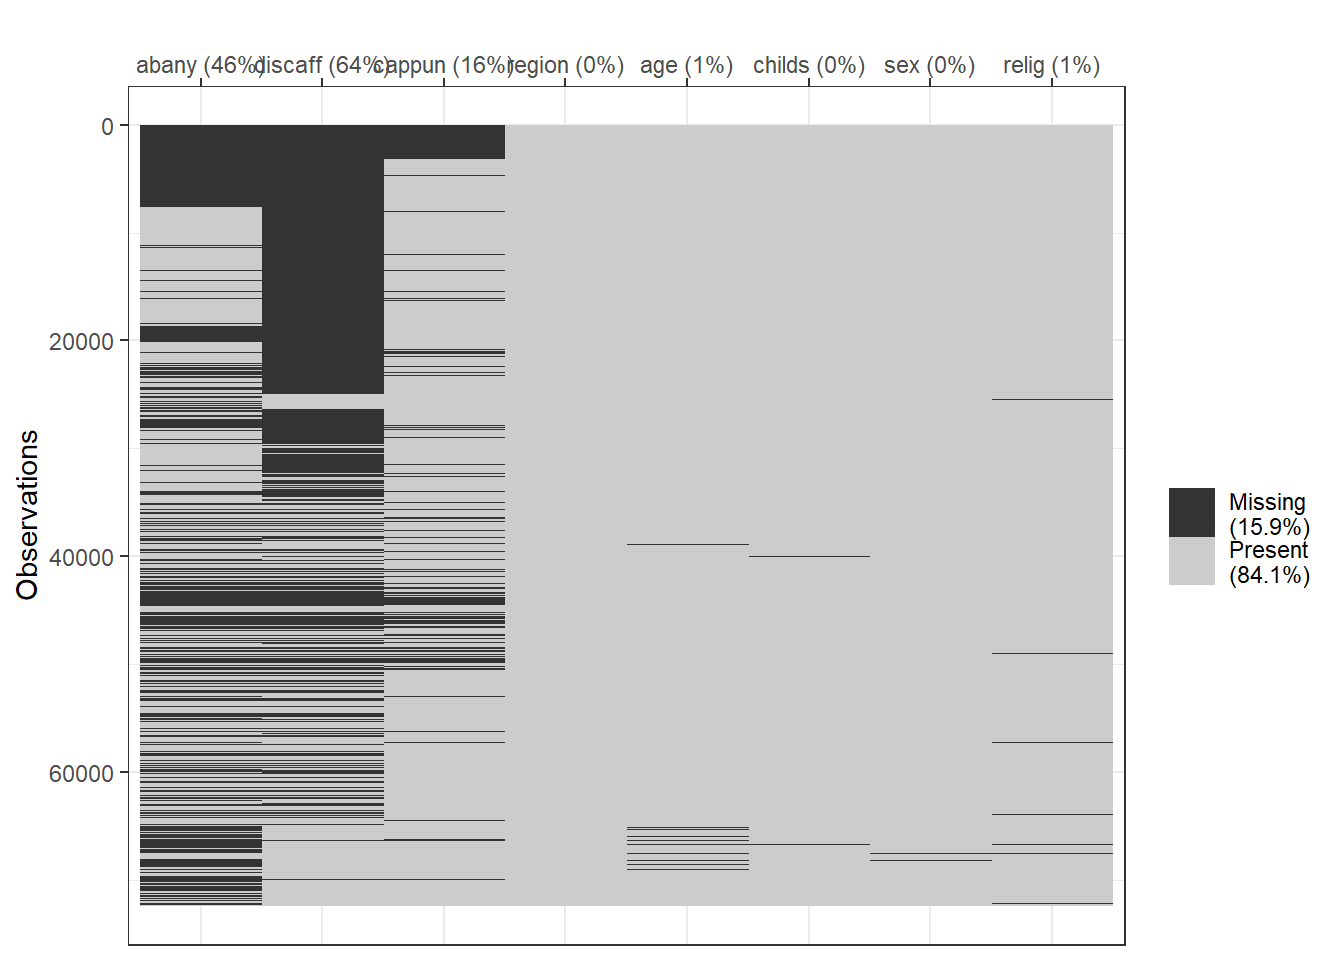
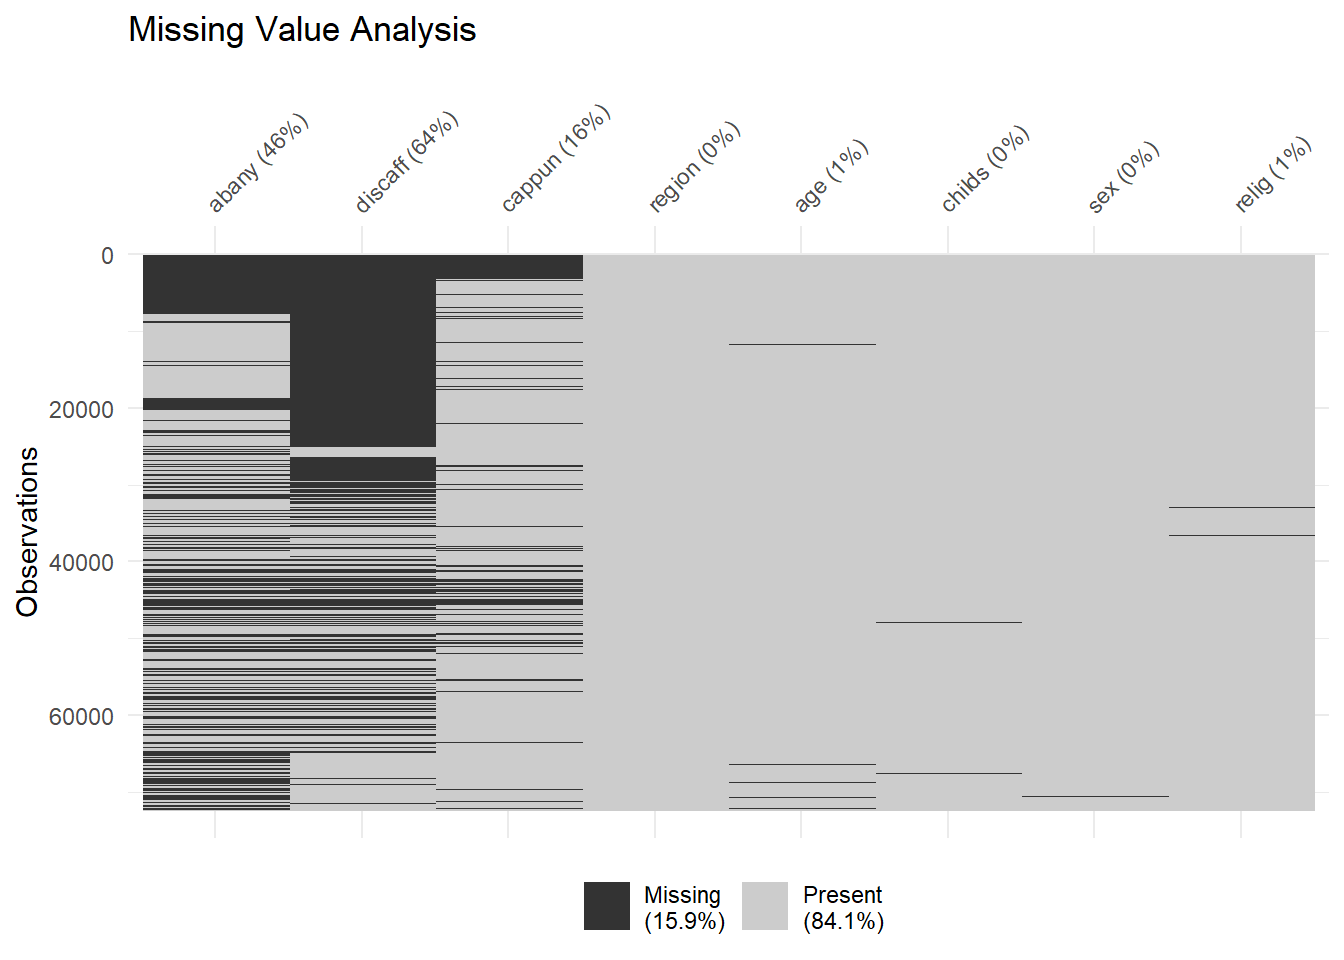
Rendered data section

diff --git a/docs/data.html b/docs/data.html
@@ -252,10 +252,12 @@ pre > code.sourceCode > span > a:first-child::before { text-decoration: underlin
 <span id="cb1-3"><a href="#cb1-3" aria-hidden="true" tabindex="-1"></a><span class="fu">library</span>(naniar)</span>
 <span id="cb1-4"><a href="#cb1-4" aria-hidden="true" tabindex="-1"></a><span class="fu">library</span>(dplyr)</span>
 <span id="cb1-5"><a href="#cb1-5" aria-hidden="true" tabindex="-1"></a><span class="fu">library</span>(ggplot2)</span>
-<span id="cb1-6"><a href="#cb1-6" aria-hidden="true" tabindex="-1"></a><span class="fu">data</span>(gss_all)</span>
-<span id="cb1-7"><a href="#cb1-7" aria-hidden="true" tabindex="-1"></a>gss_all <span class="sc">|&gt;</span></span>
-<span id="cb1-8"><a href="#cb1-8" aria-hidden="true" tabindex="-1"></a>  <span class="fu">select</span>(abany, discaff, cappun, region, age, childs, sex, relig) <span class="sc">|&gt;</span></span>
-<span id="cb1-9"><a href="#cb1-9" aria-hidden="true" tabindex="-1"></a>  <span class="fu">vis_miss</span>() <span class="sc">+</span> <span class="fu">theme_bw</span>()</span></code><button title="Copy to Clipboard" class="code-copy-button"><i class="bi"></i></button></pre></div>
+<span id="cb1-6"><a href="#cb1-6" aria-hidden="true" tabindex="-1"></a><span class="fu">library</span>(forcats)</span>
+<span id="cb1-7"><a href="#cb1-7" aria-hidden="true" tabindex="-1"></a><span class="fu">data</span>(gss_all)</span>
+<span id="cb1-8"><a href="#cb1-8" aria-hidden="true" tabindex="-1"></a>gss_all <span class="sc">|&gt;</span></span>
+<span id="cb1-9"><a href="#cb1-9" aria-hidden="true" tabindex="-1"></a>  <span class="fu">select</span>(abany, discaff, cappun, region, age, childs, sex, relig) <span class="sc">|&gt;</span></span>
+<span id="cb1-10"><a href="#cb1-10" aria-hidden="true" tabindex="-1"></a>  <span class="fu">vis_miss</span>() <span class="sc">+</span> </span>
+<span id="cb1-11"><a href="#cb1-11" aria-hidden="true" tabindex="-1"></a>  <span class="fu">ggtitle</span>(<span class="st">"Missing Value Analysis"</span>) </span></code><button title="Copy to Clipboard" class="code-copy-button"><i class="bi"></i></button></pre></div>
 </details>
 <div class="cell-output-display">
 <p><img src="data_files/figure-html/unnamed-chunk-1-1.png" class="img-fluid" width="672"></p>
@@ -307,11 +309,12 @@ pre > code.sourceCode > span > a:first-child::before { text-decoration: underlin
 <span id="cb2-35"><a href="#cb2-35" aria-hidden="true" tabindex="-1"></a>                          </span>
 <span id="cb2-36"><a href="#cb2-36" aria-hidden="true" tabindex="-1"></a><span class="fu">ggplot</span>(NA_percentage_b <span class="sc">|&gt;</span> <span class="fu">mutate</span>(<span class="at">reason =</span> <span class="fu">factor</span>(reason, <span class="at">levels =</span> inv<span class="sc">$</span>reason)), <span class="fu">aes</span>(<span class="at">x=</span>reason, <span class="at">y=</span> Perc, <span class="at">fill =</span> response)) <span class="sc">+</span></span>
 <span id="cb2-37"><a href="#cb2-37" aria-hidden="true" tabindex="-1"></a>  <span class="fu">geom_col</span>() <span class="sc">+</span></span>
-<span id="cb2-38"><a href="#cb2-38" aria-hidden="true" tabindex="-1"></a>  <span class="fu">labs</span>(<span class="at">x =</span> <span class="st">"Reason for abortion"</span>, <span class="at">y =</span> <span class="st">"Percentage of missing values (NA) in the responses"</span>, <span class="at">title =</span> <span class="st">"Percentage of Missing Values (NA) in Responses to Abortion Questions by NA Label"</span>) <span class="sc">+</span></span>
-<span id="cb2-39"><a href="#cb2-39" aria-hidden="true" tabindex="-1"></a>  <span class="fu">theme_bw</span>()</span></code><button title="Copy to Clipboard" class="code-copy-button"><i class="bi"></i></button></pre></div>
+<span id="cb2-38"><a href="#cb2-38" aria-hidden="true" tabindex="-1"></a>  <span class="fu">labs</span>(<span class="at">x =</span> <span class="st">"Reason for abortion"</span>, <span class="at">y =</span> <span class="st">"Percentage of Missing Values (NA) in the Responses"</span>, <span class="at">title =</span> <span class="st">"Percentage of Missing Values (NA) in Responses to Abortion Questions by NA Label"</span>, <span class="at">fill =</span> <span class="st">"Response"</span>) <span class="sc">+</span></span>
+<span id="cb2-39"><a href="#cb2-39" aria-hidden="true" tabindex="-1"></a>  <span class="fu">theme_bw</span>(<span class="dv">12</span>) <span class="sc">+</span></span>
+<span id="cb2-40"><a href="#cb2-40" aria-hidden="true" tabindex="-1"></a>  <span class="fu">theme</span>(<span class="at">plot.title =</span> <span class="fu">element_text</span>( <span class="at">size =</span> <span class="dv">15</span>))</span></code><button title="Copy to Clipboard" class="code-copy-button"><i class="bi"></i></button></pre></div>
 </details>
 <div class="cell-output-display">
-<p><img src="data_files/figure-html/unnamed-chunk-2-1.png" class="img-fluid" width="960"></p>
+<p><img src="data_files/figure-html/unnamed-chunk-2-1.png" class="img-fluid" width="1056"></p>
 </div>
 </div>
 </section>
@@ -323,10 +326,11 @@ pre > code.sourceCode > span > a:first-child::before { text-decoration: underlin
 <div class="sourceCode cell-code" id="cb3"><pre class="sourceCode r code-with-copy"><code class="sourceCode r"><span id="cb3-1"><a href="#cb3-1" aria-hidden="true" tabindex="-1"></a>gss_ad <span class="ot">&lt;-</span> gss_all <span class="sc">|&gt;</span> </span>
 <span id="cb3-2"><a href="#cb3-2" aria-hidden="true" tabindex="-1"></a>  <span class="fu">select</span>(discaff, affrmact)</span>
 <span id="cb3-3"><a href="#cb3-3" aria-hidden="true" tabindex="-1"></a></span>
-<span id="cb3-4"><a href="#cb3-4" aria-hidden="true" tabindex="-1"></a><span class="fu">ggplot</span>(gss_ad, <span class="fu">aes</span>(<span class="at">y =</span> haven<span class="sc">::</span><span class="fu">as_factor</span>(discaff))) <span class="sc">+</span> </span>
+<span id="cb3-4"><a href="#cb3-4" aria-hidden="true" tabindex="-1"></a><span class="fu">ggplot</span>(gss_ad, <span class="fu">aes</span>(<span class="at">y =</span> <span class="fu">fct_rev</span>(<span class="fu">fct_infreq</span>(haven<span class="sc">::</span><span class="fu">as_factor</span>(discaff)))))<span class="sc">+</span></span>
 <span id="cb3-5"><a href="#cb3-5" aria-hidden="true" tabindex="-1"></a>  <span class="fu">geom_bar</span>() <span class="sc">+</span> </span>
-<span id="cb3-6"><a href="#cb3-6" aria-hidden="true" tabindex="-1"></a>  <span class="fu">ggtitle</span>(<span class="st">"Value Breakdown of discaff variable"</span>)<span class="sc">+</span></span>
-<span id="cb3-7"><a href="#cb3-7" aria-hidden="true" tabindex="-1"></a>  <span class="fu">theme_bw</span>()</span></code><button title="Copy to Clipboard" class="code-copy-button"><i class="bi"></i></button></pre></div>
+<span id="cb3-6"><a href="#cb3-6" aria-hidden="true" tabindex="-1"></a>  <span class="fu">ggtitle</span>(<span class="st">"Value Breakdown of 'discaff' Variable"</span>) <span class="sc">+</span></span>
+<span id="cb3-7"><a href="#cb3-7" aria-hidden="true" tabindex="-1"></a>  <span class="fu">labs</span>(<span class="at">y =</span> <span class="st">"Possible Responses to 'discaff'"</span>, <span class="at">x =</span> <span class="st">"Count"</span>) <span class="sc">+</span></span>
+<span id="cb3-8"><a href="#cb3-8" aria-hidden="true" tabindex="-1"></a>  <span class="fu">theme_bw</span>() </span></code><button title="Copy to Clipboard" class="code-copy-button"><i class="bi"></i></button></pre></div>
 </details>
 <div class="cell-output-display">
 <p><img src="data_files/figure-html/unnamed-chunk-3-1.png" class="img-fluid" width="672"></p>
@@ -335,10 +339,11 @@ pre > code.sourceCode > span > a:first-child::before { text-decoration: underlin
 <div class="cell">
 <details>
 <summary>Code</summary>
-<div class="sourceCode cell-code" id="cb4"><pre class="sourceCode r code-with-copy"><code class="sourceCode r"><span id="cb4-1"><a href="#cb4-1" aria-hidden="true" tabindex="-1"></a><span class="fu">ggplot</span>(gss_ad, <span class="fu">aes</span>(<span class="at">y =</span> haven<span class="sc">::</span><span class="fu">as_factor</span>(affrmact))) <span class="sc">+</span> </span>
+<div class="sourceCode cell-code" id="cb4"><pre class="sourceCode r code-with-copy"><code class="sourceCode r"><span id="cb4-1"><a href="#cb4-1" aria-hidden="true" tabindex="-1"></a><span class="fu">ggplot</span>(gss_ad, <span class="fu">aes</span>(<span class="at">y =</span> <span class="fu">fct_rev</span>(<span class="fu">fct_infreq</span>(haven<span class="sc">::</span><span class="fu">as_factor</span>(affrmact))))) <span class="sc">+</span> </span>
 <span id="cb4-2"><a href="#cb4-2" aria-hidden="true" tabindex="-1"></a>  <span class="fu">geom_bar</span>() <span class="sc">+</span> </span>
-<span id="cb4-3"><a href="#cb4-3" aria-hidden="true" tabindex="-1"></a>  <span class="fu">ggtitle</span>(<span class="st">"Value Breakdown of affrmact variable"</span>) <span class="sc">+</span></span>
-<span id="cb4-4"><a href="#cb4-4" aria-hidden="true" tabindex="-1"></a>  <span class="fu">theme_bw</span>()</span></code><button title="Copy to Clipboard" class="code-copy-button"><i class="bi"></i></button></pre></div>
+<span id="cb4-3"><a href="#cb4-3" aria-hidden="true" tabindex="-1"></a>  <span class="fu">ggtitle</span>(<span class="st">"Value Breakdown of 'affrmact' Variable"</span>) <span class="sc">+</span></span>
+<span id="cb4-4"><a href="#cb4-4" aria-hidden="true" tabindex="-1"></a>  <span class="fu">labs</span>(<span class="at">y =</span> <span class="st">"Possible Responses to 'affrmact'"</span>, <span class="at">x =</span> <span class="st">"Count"</span>) <span class="sc">+</span></span>
+<span id="cb4-5"><a href="#cb4-5" aria-hidden="true" tabindex="-1"></a>  <span class="fu">theme_bw</span>()</span></code><button title="Copy to Clipboard" class="code-copy-button"><i class="bi"></i></button></pre></div>
 </details>
 <div class="cell-output-display">
 <p><img src="data_files/figure-html/unnamed-chunk-4-1.png" class="img-fluid" width="672"></p>
@@ -352,48 +357,45 @@ pre > code.sourceCode > span > a:first-child::before { text-decoration: underlin
 <div class="cell">
 <details>
 <summary>Code</summary>
-<div class="sourceCode cell-code" id="cb5"><pre class="sourceCode r code-with-copy"><code class="sourceCode r"><span id="cb5-1"><a href="#cb5-1" aria-hidden="true" tabindex="-1"></a><span class="fu">library</span>(ggplot2)</span>
-<span id="cb5-2"><a href="#cb5-2" aria-hidden="true" tabindex="-1"></a><span class="fu">library</span>(dplyr)</span>
-<span id="cb5-3"><a href="#cb5-3" aria-hidden="true" tabindex="-1"></a></span>
-<span id="cb5-4"><a href="#cb5-4" aria-hidden="true" tabindex="-1"></a>cp <span class="ot">&lt;-</span> gss_all <span class="sc">|&gt;</span> <span class="fu">filter</span>(cappun<span class="sc">==</span><span class="dv">1</span> <span class="sc">|</span> cappun<span class="sc">==</span><span class="dv">2</span>)</span>
-<span id="cb5-5"><a href="#cb5-5" aria-hidden="true" tabindex="-1"></a></span>
-<span id="cb5-6"><a href="#cb5-6" aria-hidden="true" tabindex="-1"></a>cp_df <span class="ot">&lt;-</span> <span class="fu">data.frame</span>(</span>
-<span id="cb5-7"><a href="#cb5-7" aria-hidden="true" tabindex="-1"></a>  <span class="at">column =</span> <span class="fu">names</span>(<span class="fu">colSums</span>(<span class="fu">is.na</span>(cp))),</span>
-<span id="cb5-8"><a href="#cb5-8" aria-hidden="true" tabindex="-1"></a>  <span class="at">missing_count =</span> <span class="fu">sort</span>(<span class="fu">colSums</span>(<span class="fu">is.na</span>(cp))),</span>
-<span id="cb5-9"><a href="#cb5-9" aria-hidden="true" tabindex="-1"></a>  <span class="at">total_responses =</span> <span class="fu">nrow</span>(cp)</span>
-<span id="cb5-10"><a href="#cb5-10" aria-hidden="true" tabindex="-1"></a>)</span>
+<div class="sourceCode cell-code" id="cb5"><pre class="sourceCode r code-with-copy"><code class="sourceCode r"><span id="cb5-1"><a href="#cb5-1" aria-hidden="true" tabindex="-1"></a>cp <span class="ot">&lt;-</span> gss_all <span class="sc">|&gt;</span> <span class="fu">filter</span>(cappun<span class="sc">==</span><span class="dv">1</span> <span class="sc">|</span> cappun<span class="sc">==</span><span class="dv">2</span>)</span>
+<span id="cb5-2"><a href="#cb5-2" aria-hidden="true" tabindex="-1"></a></span>
+<span id="cb5-3"><a href="#cb5-3" aria-hidden="true" tabindex="-1"></a>cp_df <span class="ot">&lt;-</span> <span class="fu">data.frame</span>(</span>
+<span id="cb5-4"><a href="#cb5-4" aria-hidden="true" tabindex="-1"></a>  <span class="at">column =</span> <span class="fu">names</span>(<span class="fu">colSums</span>(<span class="fu">is.na</span>(cp))),</span>
+<span id="cb5-5"><a href="#cb5-5" aria-hidden="true" tabindex="-1"></a>  <span class="at">missing_count =</span> <span class="fu">sort</span>(<span class="fu">colSums</span>(<span class="fu">is.na</span>(cp))),</span>
+<span id="cb5-6"><a href="#cb5-6" aria-hidden="true" tabindex="-1"></a>  <span class="at">total_responses =</span> <span class="fu">nrow</span>(cp)</span>
+<span id="cb5-7"><a href="#cb5-7" aria-hidden="true" tabindex="-1"></a>)</span>
+<span id="cb5-8"><a href="#cb5-8" aria-hidden="true" tabindex="-1"></a></span>
+<span id="cb5-9"><a href="#cb5-9" aria-hidden="true" tabindex="-1"></a><span class="co"># variables of interest</span></span>
+<span id="cb5-10"><a href="#cb5-10" aria-hidden="true" tabindex="-1"></a>cp_df_2 <span class="ot">&lt;-</span> cp_df <span class="sc">|&gt;</span> <span class="fu">filter</span>(column <span class="sc">%in%</span> <span class="fu">c</span>(<span class="st">'age'</span>, <span class="st">'race'</span>, <span class="st">'sex'</span>, <span class="st">'region'</span>, <span class="st">'relig'</span>, <span class="st">'degree'</span>))</span>
 <span id="cb5-11"><a href="#cb5-11" aria-hidden="true" tabindex="-1"></a></span>
-<span id="cb5-12"><a href="#cb5-12" aria-hidden="true" tabindex="-1"></a><span class="co"># variables of interest</span></span>
-<span id="cb5-13"><a href="#cb5-13" aria-hidden="true" tabindex="-1"></a>cp_df_2 <span class="ot">&lt;-</span> cp_df <span class="sc">|&gt;</span> <span class="fu">filter</span>(column <span class="sc">%in%</span> <span class="fu">c</span>(<span class="st">'age'</span>, <span class="st">'race'</span>, <span class="st">'sex'</span>, <span class="st">'region'</span>, <span class="st">'relig'</span>, <span class="st">'degree'</span>))</span>
-<span id="cb5-14"><a href="#cb5-14" aria-hidden="true" tabindex="-1"></a></span>
-<span id="cb5-15"><a href="#cb5-15" aria-hidden="true" tabindex="-1"></a><span class="co"># percentage of missing data</span></span>
-<span id="cb5-16"><a href="#cb5-16" aria-hidden="true" tabindex="-1"></a>cp_df<span class="sc">$</span>missing_percentage <span class="ot">&lt;-</span> (cp_df<span class="sc">$</span>missing_count <span class="sc">/</span> cp_df<span class="sc">$</span>total_responses) <span class="sc">*</span> <span class="dv">100</span></span>
-<span id="cb5-17"><a href="#cb5-17" aria-hidden="true" tabindex="-1"></a>cp_df_2<span class="sc">$</span>missing_percentage <span class="ot">&lt;-</span> (cp_df_2<span class="sc">$</span>missing_count <span class="sc">/</span> cp_df_2<span class="sc">$</span>total_responses) <span class="sc">*</span> <span class="dv">100</span></span>
-<span id="cb5-18"><a href="#cb5-18" aria-hidden="true" tabindex="-1"></a></span>
-<span id="cb5-19"><a href="#cb5-19" aria-hidden="true" tabindex="-1"></a>cp_df_sorted <span class="ot">&lt;-</span> cp_df <span class="sc">|&gt;</span> <span class="fu">arrange</span>(missing_percentage)</span>
-<span id="cb5-20"><a href="#cb5-20" aria-hidden="true" tabindex="-1"></a></span>
-<span id="cb5-21"><a href="#cb5-21" aria-hidden="true" tabindex="-1"></a>cp_df_2_sorted <span class="ot">&lt;-</span> cp_df_2 <span class="sc">|&gt;</span> </span>
-<span id="cb5-22"><a href="#cb5-22" aria-hidden="true" tabindex="-1"></a>  <span class="fu">arrange</span>(missing_percentage) <span class="sc">|&gt;</span> </span>
-<span id="cb5-23"><a href="#cb5-23" aria-hidden="true" tabindex="-1"></a>  <span class="fu">mutate</span>(<span class="at">column =</span> <span class="fu">factor</span>(column, <span class="at">levels =</span> column))</span>
-<span id="cb5-24"><a href="#cb5-24" aria-hidden="true" tabindex="-1"></a></span>
-<span id="cb5-25"><a href="#cb5-25" aria-hidden="true" tabindex="-1"></a>top_50_present <span class="ot">&lt;-</span> cp_df_sorted <span class="sc">|&gt;</span> </span>
-<span id="cb5-26"><a href="#cb5-26" aria-hidden="true" tabindex="-1"></a>  <span class="fu">slice_head</span>(<span class="at">n =</span> <span class="dv">50</span>) <span class="sc">|&gt;</span> </span>
-<span id="cb5-27"><a href="#cb5-27" aria-hidden="true" tabindex="-1"></a>  <span class="fu">mutate</span>(<span class="at">column =</span> <span class="fu">factor</span>(column, <span class="at">levels =</span> column))</span>
-<span id="cb5-28"><a href="#cb5-28" aria-hidden="true" tabindex="-1"></a></span>
-<span id="cb5-29"><a href="#cb5-29" aria-hidden="true" tabindex="-1"></a><span class="fu">ggplot</span>(top_50_present, <span class="fu">aes</span>(<span class="at">x =</span> column, <span class="at">y =</span> missing_percentage)) <span class="sc">+</span></span>
-<span id="cb5-30"><a href="#cb5-30" aria-hidden="true" tabindex="-1"></a>  <span class="fu">geom_bar</span>(<span class="at">stat =</span> <span class="st">"identity"</span>, <span class="at">fill =</span> <span class="st">"darkgrey"</span>) <span class="sc">+</span></span>
-<span id="cb5-31"><a href="#cb5-31" aria-hidden="true" tabindex="-1"></a>  <span class="fu">coord_flip</span>() <span class="sc">+</span></span>
-<span id="cb5-32"><a href="#cb5-32" aria-hidden="true" tabindex="-1"></a>  <span class="fu">labs</span>(</span>
-<span id="cb5-33"><a href="#cb5-33" aria-hidden="true" tabindex="-1"></a>    <span class="at">title =</span> <span class="st">'Top 50 Most Present Columns'</span>,</span>
-<span id="cb5-34"><a href="#cb5-34" aria-hidden="true" tabindex="-1"></a>    <span class="at">x =</span> <span class="st">"Columns"</span>,</span>
-<span id="cb5-35"><a href="#cb5-35" aria-hidden="true" tabindex="-1"></a>    <span class="at">y =</span> <span class="st">"Percentage of Missing Rows (%)"</span></span>
-<span id="cb5-36"><a href="#cb5-36" aria-hidden="true" tabindex="-1"></a>  ) <span class="sc">+</span></span>
-<span id="cb5-37"><a href="#cb5-37" aria-hidden="true" tabindex="-1"></a>  <span class="fu">geom_text</span>(</span>
-<span id="cb5-38"><a href="#cb5-38" aria-hidden="true" tabindex="-1"></a>    <span class="fu">aes</span>(<span class="at">label =</span> <span class="fu">sprintf</span>(<span class="st">"%.2f%%"</span>, missing_percentage)), </span>
-<span id="cb5-39"><a href="#cb5-39" aria-hidden="true" tabindex="-1"></a>    <span class="at">position =</span> <span class="fu">position_dodge</span>(<span class="at">width =</span> <span class="fl">0.9</span>),</span>
-<span id="cb5-40"><a href="#cb5-40" aria-hidden="true" tabindex="-1"></a>    <span class="at">hjust =</span> <span class="sc">-</span><span class="fl">0.1</span>,</span>
-<span id="cb5-41"><a href="#cb5-41" aria-hidden="true" tabindex="-1"></a>    <span class="at">size =</span> <span class="fl">2.5</span></span>
-<span id="cb5-42"><a href="#cb5-42" aria-hidden="true" tabindex="-1"></a>  )</span></code><button title="Copy to Clipboard" class="code-copy-button"><i class="bi"></i></button></pre></div>
+<span id="cb5-12"><a href="#cb5-12" aria-hidden="true" tabindex="-1"></a><span class="co"># percentage of missing data</span></span>
+<span id="cb5-13"><a href="#cb5-13" aria-hidden="true" tabindex="-1"></a>cp_df<span class="sc">$</span>missing_percentage <span class="ot">&lt;-</span> (cp_df<span class="sc">$</span>missing_count <span class="sc">/</span> cp_df<span class="sc">$</span>total_responses) <span class="sc">*</span> <span class="dv">100</span></span>
+<span id="cb5-14"><a href="#cb5-14" aria-hidden="true" tabindex="-1"></a>cp_df_2<span class="sc">$</span>missing_percentage <span class="ot">&lt;-</span> (cp_df_2<span class="sc">$</span>missing_count <span class="sc">/</span> cp_df_2<span class="sc">$</span>total_responses) <span class="sc">*</span> <span class="dv">100</span></span>
+<span id="cb5-15"><a href="#cb5-15" aria-hidden="true" tabindex="-1"></a></span>
+<span id="cb5-16"><a href="#cb5-16" aria-hidden="true" tabindex="-1"></a>cp_df_sorted <span class="ot">&lt;-</span> cp_df <span class="sc">|&gt;</span> <span class="fu">arrange</span>(missing_percentage)</span>
+<span id="cb5-17"><a href="#cb5-17" aria-hidden="true" tabindex="-1"></a></span>
+<span id="cb5-18"><a href="#cb5-18" aria-hidden="true" tabindex="-1"></a>cp_df_2_sorted <span class="ot">&lt;-</span> cp_df_2 <span class="sc">|&gt;</span> </span>
+<span id="cb5-19"><a href="#cb5-19" aria-hidden="true" tabindex="-1"></a>  <span class="fu">arrange</span>(missing_percentage) <span class="sc">|&gt;</span> </span>
+<span id="cb5-20"><a href="#cb5-20" aria-hidden="true" tabindex="-1"></a>  <span class="fu">mutate</span>(<span class="at">column =</span> <span class="fu">factor</span>(column, <span class="at">levels =</span> column))</span>
+<span id="cb5-21"><a href="#cb5-21" aria-hidden="true" tabindex="-1"></a></span>
+<span id="cb5-22"><a href="#cb5-22" aria-hidden="true" tabindex="-1"></a>top_50_present <span class="ot">&lt;-</span> cp_df_sorted <span class="sc">|&gt;</span> </span>
+<span id="cb5-23"><a href="#cb5-23" aria-hidden="true" tabindex="-1"></a>  <span class="fu">slice_head</span>(<span class="at">n =</span> <span class="dv">50</span>) <span class="sc">|&gt;</span> </span>
+<span id="cb5-24"><a href="#cb5-24" aria-hidden="true" tabindex="-1"></a>  <span class="fu">mutate</span>(<span class="at">column =</span> <span class="fu">factor</span>(column, <span class="at">levels =</span> column))</span>
+<span id="cb5-25"><a href="#cb5-25" aria-hidden="true" tabindex="-1"></a></span>
+<span id="cb5-26"><a href="#cb5-26" aria-hidden="true" tabindex="-1"></a><span class="fu">ggplot</span>(top_50_present, <span class="fu">aes</span>(<span class="at">x =</span> column, <span class="at">y =</span> missing_percentage)) <span class="sc">+</span></span>
+<span id="cb5-27"><a href="#cb5-27" aria-hidden="true" tabindex="-1"></a>  <span class="fu">geom_bar</span>(<span class="at">stat =</span> <span class="st">"identity"</span>, <span class="at">fill =</span> <span class="st">"darkgrey"</span>) <span class="sc">+</span></span>
+<span id="cb5-28"><a href="#cb5-28" aria-hidden="true" tabindex="-1"></a>  <span class="fu">coord_flip</span>() <span class="sc">+</span></span>
+<span id="cb5-29"><a href="#cb5-29" aria-hidden="true" tabindex="-1"></a>  <span class="fu">labs</span>(</span>
+<span id="cb5-30"><a href="#cb5-30" aria-hidden="true" tabindex="-1"></a>    <span class="at">title =</span> <span class="st">'Top 50 Most Present Columns'</span>,</span>
+<span id="cb5-31"><a href="#cb5-31" aria-hidden="true" tabindex="-1"></a>    <span class="at">x =</span> <span class="st">"Columns"</span>,</span>
+<span id="cb5-32"><a href="#cb5-32" aria-hidden="true" tabindex="-1"></a>    <span class="at">y =</span> <span class="st">"Percentage of Missing Rows (%)"</span></span>
+<span id="cb5-33"><a href="#cb5-33" aria-hidden="true" tabindex="-1"></a>  ) <span class="sc">+</span></span>
+<span id="cb5-34"><a href="#cb5-34" aria-hidden="true" tabindex="-1"></a>  <span class="fu">geom_text</span>(</span>
+<span id="cb5-35"><a href="#cb5-35" aria-hidden="true" tabindex="-1"></a>    <span class="fu">aes</span>(<span class="at">label =</span> <span class="fu">sprintf</span>(<span class="st">"%.2f%%"</span>, missing_percentage)), </span>
+<span id="cb5-36"><a href="#cb5-36" aria-hidden="true" tabindex="-1"></a>    <span class="at">position =</span> <span class="fu">position_dodge</span>(<span class="at">width =</span> <span class="fl">0.9</span>),</span>
+<span id="cb5-37"><a href="#cb5-37" aria-hidden="true" tabindex="-1"></a>    <span class="at">hjust =</span> <span class="sc">-</span><span class="fl">0.1</span>,</span>
+<span id="cb5-38"><a href="#cb5-38" aria-hidden="true" tabindex="-1"></a>    <span class="at">size =</span> <span class="fl">2.5</span></span>
+<span id="cb5-39"><a href="#cb5-39" aria-hidden="true" tabindex="-1"></a>  )</span></code><button title="Copy to Clipboard" class="code-copy-button"><i class="bi"></i></button></pre></div>
 </details>
 <div class="cell-output-display">
 <p><img src="data_files/figure-html/unnamed-chunk-5-1.png" class="img-fluid" width="672"></p>
